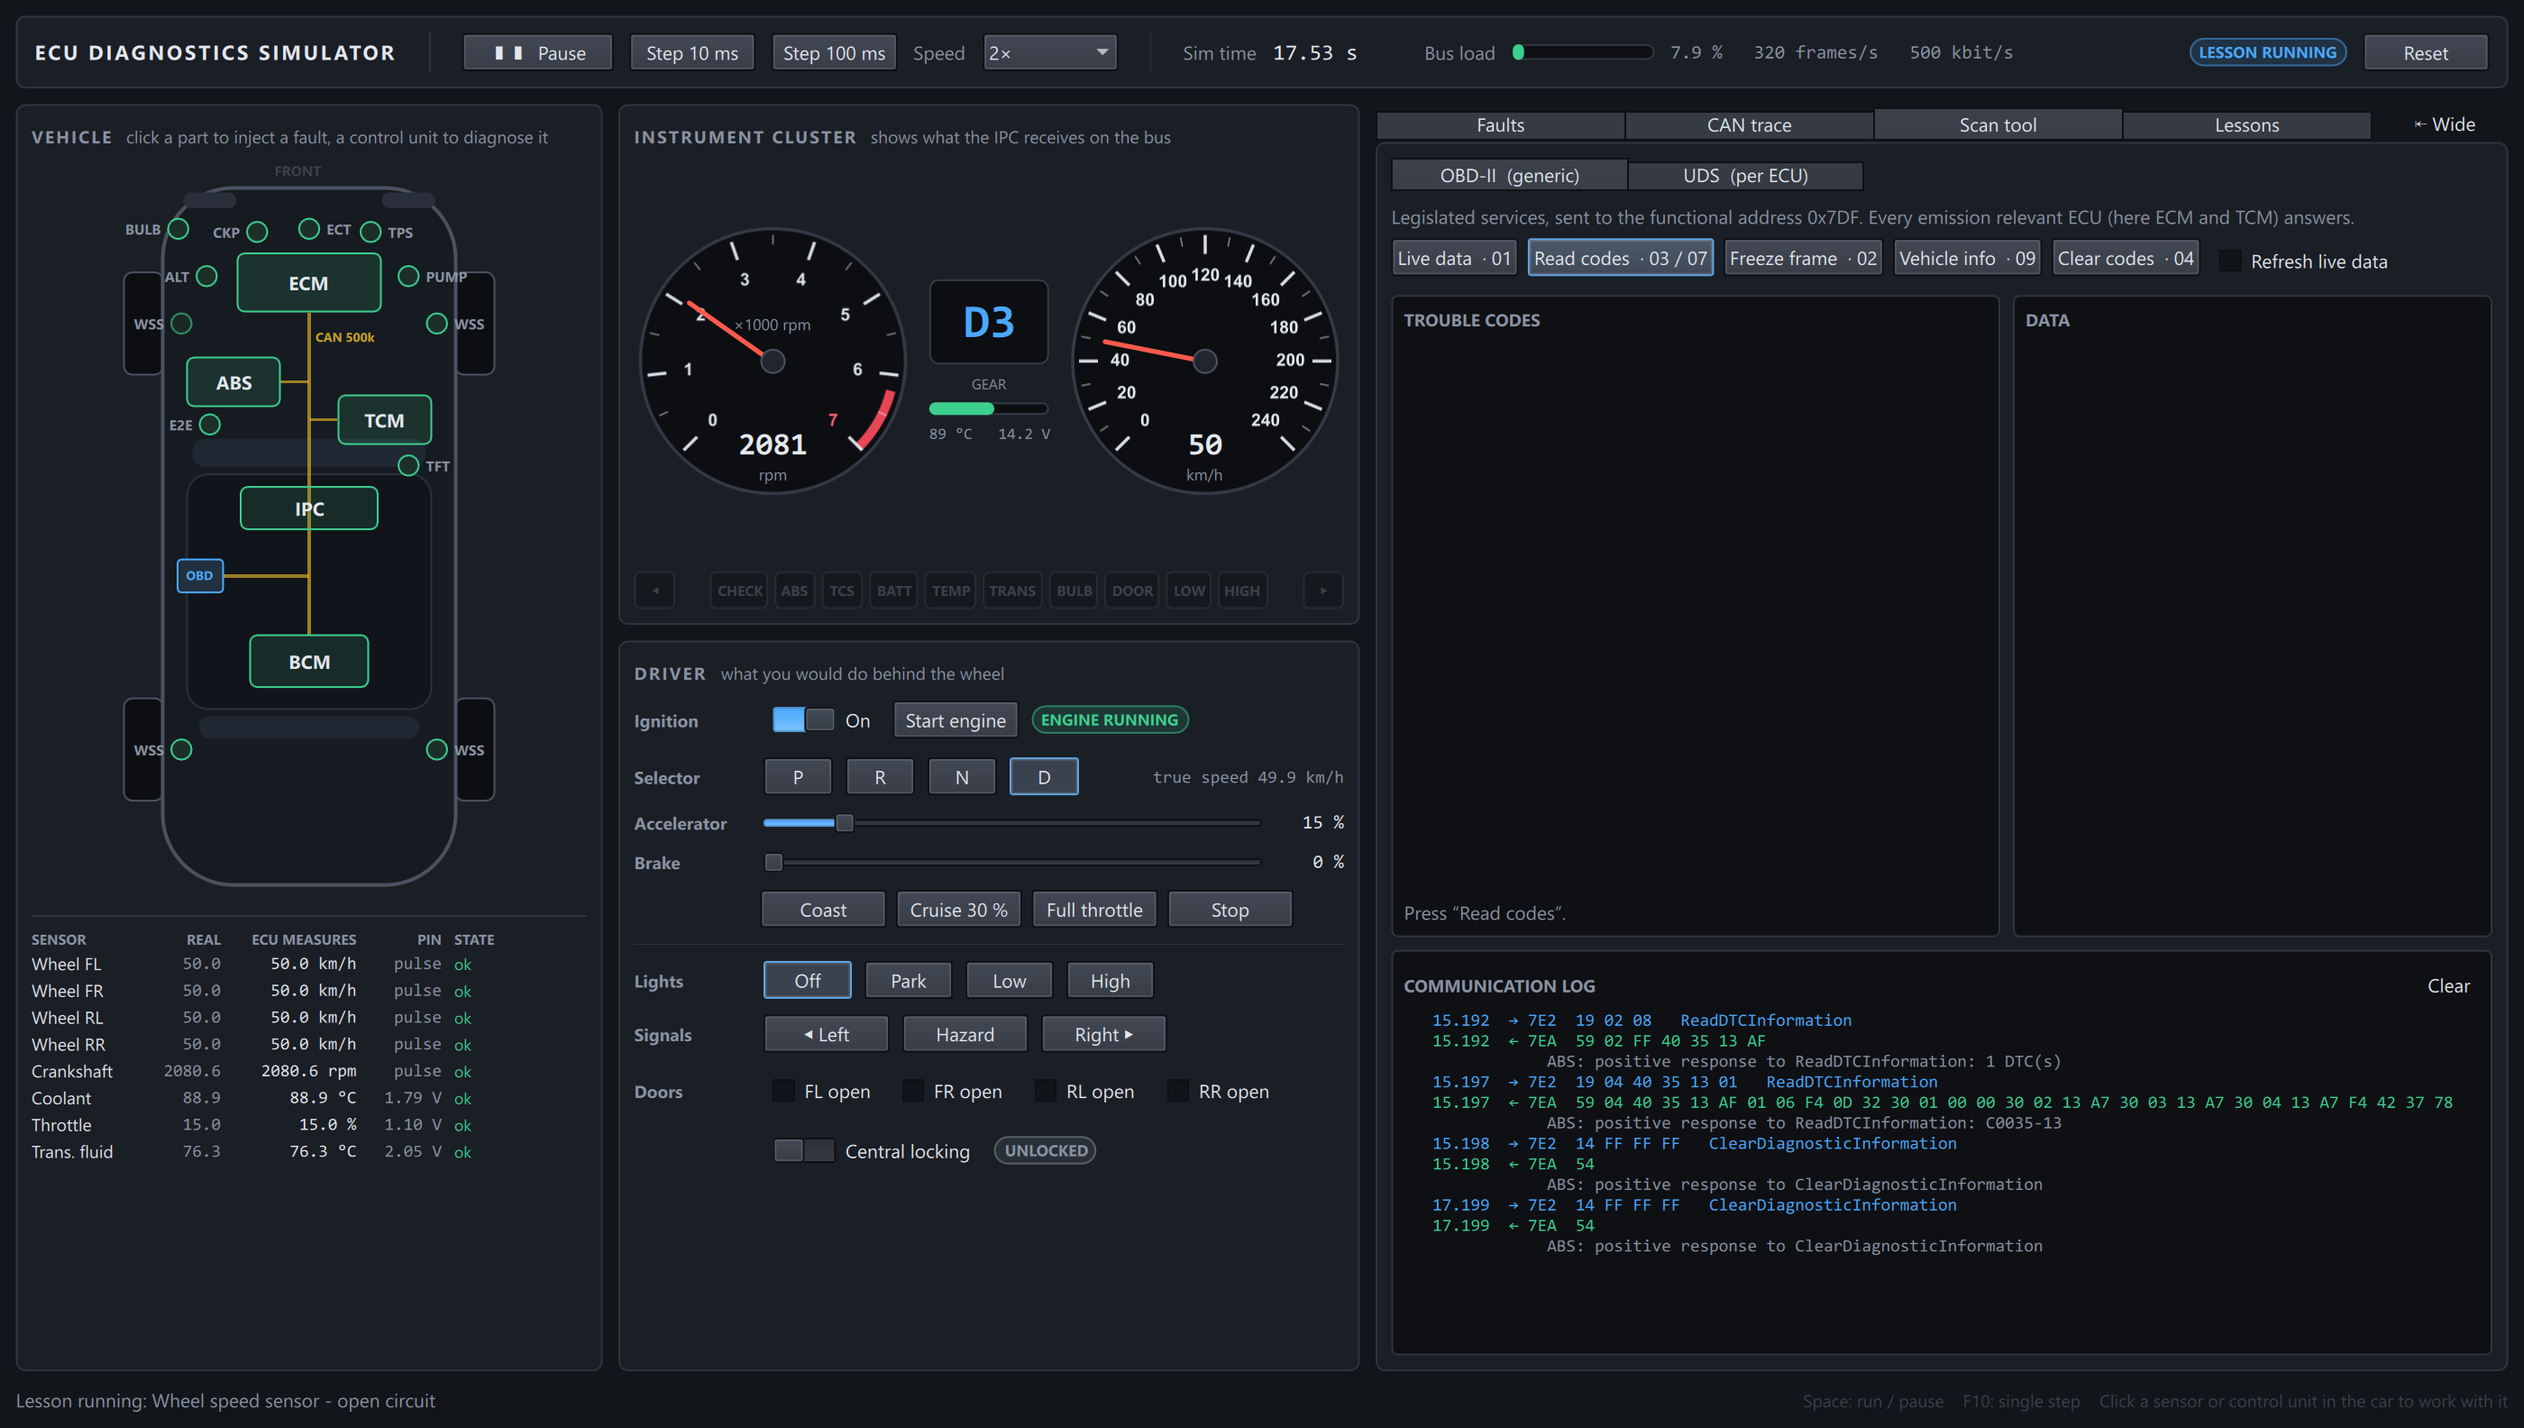
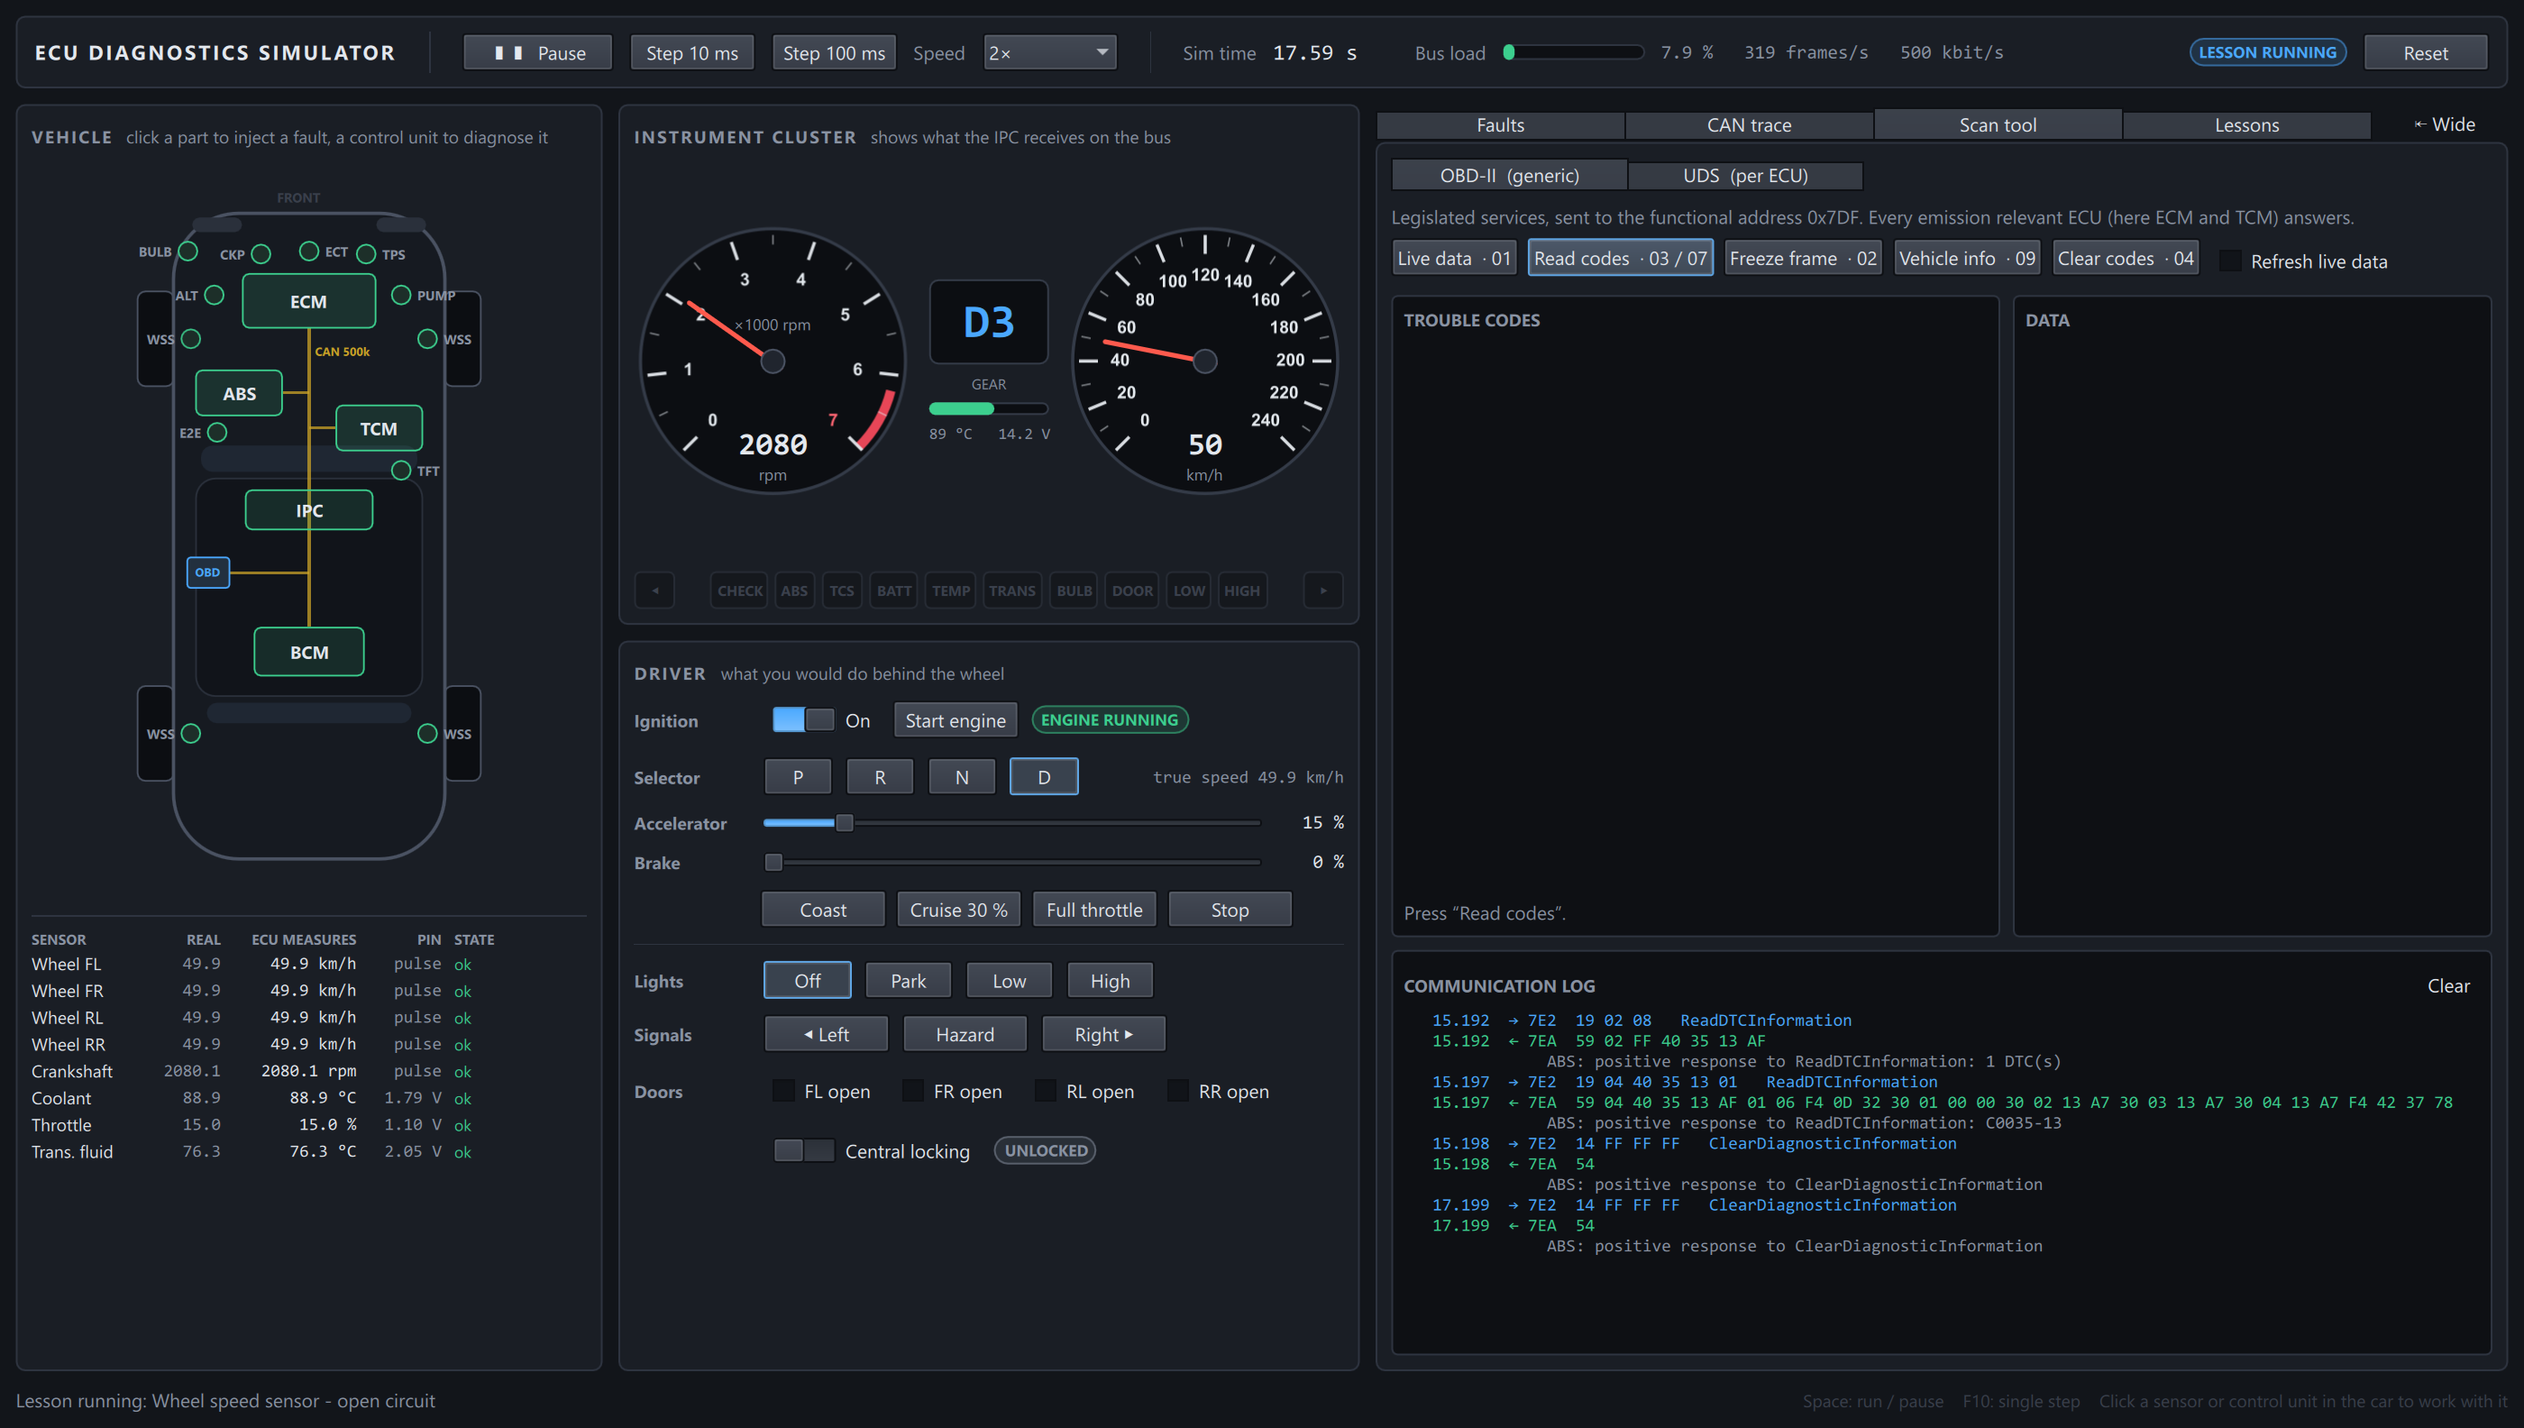
chore: fit the window on 1366x768 laptop screens
Found by the CI screenshot (the runner's screen is 1280x760): the top
bar ran off the right edge and the sensor table overlapped the status
line.

- Minimum window size 1280x680 (fits 1366x768 with a taskbar).
- Top bar drops the title, "Step 100 ms" and "Sim time" label when
  narrow; the bus statistics text elides.
- The car drawing scales to the space left for it; the driver panel
  scrolls and its rows are capped at the panel width.
- Middle column narrower below 1500 px; Faults list and hint adapt.
- --size WxH option for screenshots and testing small screens.

diff --git a/src/app/qml/DriverControls.qml b/src/app/qml/DriverControls.qml
@@ -16,12 +16,27 @@ Panel {
         Layout.preferredWidth: 74
     }
 
-    ColumnLayout {
+    // Scrolls when the window is too short for all controls (small laptop screens). Each row
+    // is capped at the column width, otherwise rows keep their natural width and run off the side.
+    Flickable {
+        id: scroller
+        readonly property bool overflows: contentHeight > height
         anchors.fill: parent
+        clip: true
+        contentWidth: width
+        contentHeight: column.implicitHeight
+        boundsBehavior: Flickable.StopAtBounds
+        ScrollBar.vertical: ScrollBar { policy: scroller.overflows ? ScrollBar.AlwaysOn : ScrollBar.AsNeeded }
+
+    ColumnLayout {
+        id: column
+        width: scroller.width - (scroller.overflows ? 14 : 0) // room for the scroll bar
         spacing: 10
 
         // --- ignition and engine ---
         RowLayout {
+            Layout.fillWidth: true
+            Layout.maximumWidth: column.width
             spacing: 8
             Caption { text: "Ignition" }
             Switch {
@@ -46,6 +61,8 @@ Panel {
 
         // --- selector ---
         RowLayout {
+            Layout.fillWidth: true
+            Layout.maximumWidth: column.width
             spacing: 8
             Caption { text: "Selector" }
             Repeater {
@@ -61,8 +78,12 @@ Panel {
                     onClicked: App.selector = index
                 }
             }
-            Item { Layout.fillWidth: true }
             Text {
+                // Shrinks first when the panel is narrow.
+                Layout.fillWidth: true
+                Layout.minimumWidth: 40
+                horizontalAlignment: Text.AlignRight
+                elide: Text.ElideLeft
                 text: "true speed " + root.v.speed.toFixed(1) + " km/h"
                 color: Theme.textDim
                 font { family: Theme.mono; pixelSize: 11 }
@@ -71,6 +92,8 @@ Panel {
 
         // --- pedals ---
         RowLayout {
+            Layout.fillWidth: true
+            Layout.maximumWidth: column.width
             spacing: 8
             Caption { text: "Accelerator" }
             Slider {
@@ -89,6 +112,8 @@ Panel {
             }
         }
         RowLayout {
+            Layout.fillWidth: true
+            Layout.maximumWidth: column.width
             spacing: 8
             Caption { text: "Brake" }
             Slider {
@@ -106,6 +131,8 @@ Panel {
             }
         }
         RowLayout {
+            Layout.fillWidth: true
+            Layout.maximumWidth: column.width
             spacing: 6
             Caption { text: "" }
             Button { text: "Coast"; onClicked: { App.throttle = 0; App.brake = 0 } }
@@ -119,6 +146,8 @@ Panel {
 
         // --- lights ---
         RowLayout {
+            Layout.fillWidth: true
+            Layout.maximumWidth: column.width
             spacing: 8
             Caption { text: "Lights" }
             Repeater {
@@ -145,6 +174,8 @@ Panel {
             Item { Layout.fillWidth: true }
         }
         RowLayout {
+            Layout.fillWidth: true
+            Layout.maximumWidth: column.width
             spacing: 8
             Caption { text: "Signals" }
             Button {
@@ -173,6 +204,8 @@ Panel {
 
         // --- doors ---
         RowLayout {
+            Layout.fillWidth: true
+            Layout.maximumWidth: column.width
             spacing: 8
             Caption { text: "Doors" }
             Repeater {
@@ -188,6 +221,8 @@ Panel {
             Item { Layout.fillWidth: true }
         }
         RowLayout {
+            Layout.fillWidth: true
+            Layout.maximumWidth: column.width
             spacing: 8
             Caption { text: "" }
             Switch {
@@ -202,6 +237,6 @@ Panel {
             Item { Layout.fillWidth: true }
         }
 
-        Item { Layout.fillHeight: true }
+    }
     }
 }

diff --git a/src/app/qml/SimBar.qml b/src/app/qml/SimBar.qml
@@ -11,6 +11,8 @@ Rectangle {
     radius: Theme.radius
 
     readonly property var speeds: [0.25, 0.5, 1, 2, 5, 10]
+    // Below this width (1366x768 laptops) the less important items give way.
+    readonly property bool compact: width < 1450
 
     RowLayout {
         anchors.fill: parent
@@ -19,11 +21,12 @@ Rectangle {
         spacing: 10
 
         Text {
+            visible: !root.compact
             text: "ECU DIAGNOSTICS SIMULATOR"
             color: Theme.text
             font { pixelSize: 13; bold: true; letterSpacing: 1.5 }
         }
-        Rectangle { width: 1; Layout.fillHeight: true; Layout.margins: 10; color: Theme.border }
+        Rectangle { visible: !root.compact; width: 1; Layout.fillHeight: true; Layout.margins: 10; color: Theme.border }
 
         Button {
             text: App.running ? "❚❚  Pause" : "▶  Run"
@@ -37,7 +40,7 @@ Rectangle {
             ToolTip.visible: hovered
             ToolTip.text: "Pause and advance one ABS/ECM cycle"
         }
-        Button { text: "Step 100 ms"; onClicked: App.step(100) }
+        Button { visible: !root.compact; text: "Step 100 ms"; onClicked: App.step(100) }
 
         Text { text: "Speed"; color: Theme.textDim; font.pixelSize: 12 }
         ComboBox {
@@ -57,12 +60,12 @@ Rectangle {
 
         Rectangle { width: 1; Layout.fillHeight: true; Layout.margins: 10; color: Theme.border }
 
-        Text { text: "Sim time"; color: Theme.textDim; font.pixelSize: 12 }
+        Text { visible: !root.compact; text: "Sim time"; color: Theme.textDim; font.pixelSize: 12 }
         Text {
             text: App.simTime.toFixed(2) + " s"
             color: Theme.text
             font { family: Theme.mono; pixelSize: 14 }
-            Layout.preferredWidth: 86
+            Layout.preferredWidth: 80
         }
 
         Text { text: "Bus load"; color: Theme.textDim; font.pixelSize: 12 }
@@ -79,13 +82,15 @@ Rectangle {
                 color: App.busLoad > 0.7 ? Theme.error : (App.busLoad > 0.4 ? Theme.warn : Theme.ok)
             }
         }
+        // Takes the free space and gives it up first when the window is narrow.
         Text {
+            Layout.fillWidth: true
+            Layout.minimumWidth: 50
             text: (App.busLoad * 100).toFixed(1) + " %   " + App.frameRate.toFixed(0) + " frames/s   500 kbit/s"
             color: Theme.textDim
             font { family: Theme.mono; pixelSize: 12 }
+            elide: Text.ElideRight
         }
-
-        Item { Layout.fillWidth: true }
 
         Chip {
             visible: App.replaying

diff --git a/src/app/qml/FaultsPanel.qml b/src/app/qml/FaultsPanel.qml
@@ -43,7 +43,7 @@ Panel {
 
         // --- what can break ---
         ColumnLayout {
-            Layout.preferredWidth: 280
+            Layout.preferredWidth: Math.min(280, root.width * 0.45)
             Layout.maximumWidth: 280
             Layout.fillHeight: true
             spacing: 6
@@ -146,6 +146,8 @@ Panel {
                 ComboBox {
                     id: typeBox
                     Layout.preferredWidth: 220
+                    Layout.fillWidth: true
+                    Layout.maximumWidth: 220
                     model: root.target ? root.target.types : []
                     textRole: "label"
                     valueRole: "id"
@@ -246,9 +248,11 @@ Panel {
             }
             Text {
                 visible: App.activeFaults.length === 0
-                text: "The vehicle is healthy. Start the engine, pick a component and break it —\nthen watch the CAN trace, the cluster lamps and the fault memories."
+                text: "The vehicle is healthy. Start the engine, pick a component and break it — then watch the CAN trace, the cluster lamps and the fault memories."
                 color: Theme.textDim
                 font.pixelSize: 12
+                wrapMode: Text.WordWrap
+                Layout.fillWidth: true
             }
 
             Item { Layout.fillHeight: true }

diff --git a/src/app/qml/Main.qml b/src/app/qml/Main.qml
@@ -8,7 +8,7 @@ ApplicationWindow {
     width: 1600
     height: 940
     minimumWidth: 1280
-    minimumHeight: 760
+    minimumHeight: 680
     visible: true
     title: "ECU Diagnostics Simulator"
     color: Theme.bg
@@ -81,12 +81,19 @@ ApplicationWindow {
             }
 
             ColumnLayout {
-                Layout.preferredWidth: 470
-                Layout.maximumWidth: 470
+                // Narrower on small screens so the tabs on the right keep enough room.
+                Layout.preferredWidth: window.width < 1500 ? 420 : 470
+                Layout.maximumWidth: Layout.preferredWidth
                 Layout.fillHeight: true
                 spacing: 10
-                Cluster { Layout.fillWidth: true; Layout.preferredHeight: 330 }
-                DriverControls { Layout.fillWidth: true; Layout.fillHeight: true }
+                Cluster {
+                    Layout.fillWidth: true
+                    Layout.fillHeight: true
+                    Layout.preferredHeight: 330
+                    Layout.minimumHeight: 230
+                    Layout.maximumHeight: 330
+                }
+                DriverControls { Layout.fillWidth: true; Layout.fillHeight: true; Layout.minimumHeight: 250 }
             }
 
             ColumnLayout {

diff --git a/src/app/qml/VehicleView.qml b/src/app/qml/VehicleView.qml
@@ -163,13 +163,17 @@ Panel {
         Item {
             id: stage
             Layout.fillWidth: true
-            Layout.preferredHeight: 470
+            Layout.fillHeight: true
+            Layout.minimumHeight: 240
+            Layout.maximumHeight: 470
             Layout.alignment: Qt.AlignHCenter
 
             Item {
                 id: car
                 width: 380; height: 470
                 anchors.centerIn: parent
+                // Shrinks on small screens (e.g. 1366x768) so the sensor table below stays visible.
+                scale: Math.min(1, stage.width / width, stage.height / height)
 
                 Text { x: 168; y: 0; text: "FRONT"; color: Theme.off; font { pixelSize: 9; bold: true } }
 
@@ -316,6 +320,6 @@ Panel {
                 }
             }
         }
-        Item { Layout.fillHeight: true }
+        Item { Layout.fillHeight: true; Layout.preferredHeight: 0 } // spare height goes below the table
     }
 }

diff --git a/src/app/main.cpp b/src/app/main.cpp
@@ -32,7 +32,10 @@ int main(int argc, char *argv[])
     const QCommandLineOption afterOpt(QStringLiteral("after"),
         QStringLiteral("Milliseconds to wait before the screenshot (default 3000)."), QStringLiteral("ms"),
         QStringLiteral("3000"));
-    parser.addOptions({scenarioOpt, tabOpt, speedOpt, shotOpt, afterOpt});
+    const QCommandLineOption sizeOpt(QStringLiteral("size"),
+        QStringLiteral("Window size, e.g. 1366x768 (for screenshots and testing small screens)."),
+        QStringLiteral("WxH"));
+    parser.addOptions({scenarioOpt, tabOpt, speedOpt, shotOpt, afterOpt, sizeOpt});
     parser.process(app);
 
     QQmlApplicationEngine engine;
@@ -60,6 +63,13 @@ int main(int argc, char *argv[])
     }
     if (parser.isSet(tabOpt))
         root->setProperty("currentTab", parser.value(tabOpt).toInt());
+    if (parser.isSet(sizeOpt)) {
+        const QStringList wh = parser.value(sizeOpt).split(QLatin1Char('x'));
+        if (wh.size() == 2) {
+            root->setProperty("width", wh.at(0).toInt());
+            root->setProperty("height", wh.at(1).toInt());
+        }
+    }
 
     if (parser.isSet(shotOpt)) {
         QTimer::singleShot(parser.value(afterOpt).toInt(), &app, [&] {

diff --git a/README.md b/README.md
@@ -87,7 +87,7 @@ python3 -m venv ~/.venv/aqt && ~/.venv/aqt/bin/pip install aqtinstall
 `debug`, `release`, `ci` (warnings as errors, what CI runs on Windows) and `asan` (GCC/Clang with
 AddressSanitizer and UndefinedBehaviorSanitizer, what CI runs on Linux).
 
-Command line options: `--scenario <file|number>`, `--tab <0..3>`, `--speed <factor>`,
+Command line options: `--scenario <file|number>`, `--tab <0..3>`, `--speed <factor>`, `--size <WxH>`,
 `--screenshot <file> --after <ms>`.
 
 ## A first session
